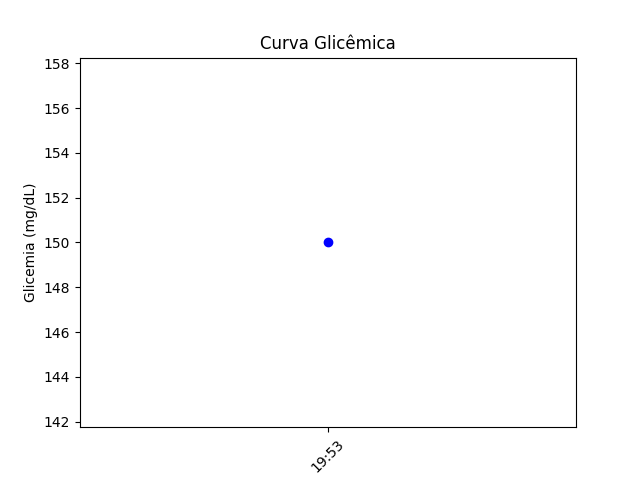
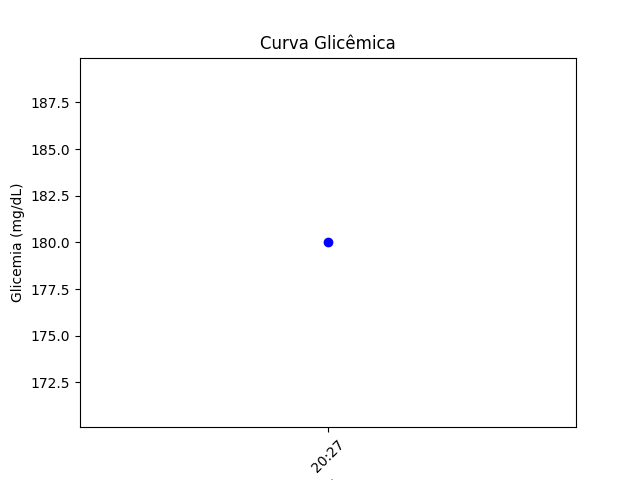
ajustes no layout e importação e exportação de json

diff --git a/templates/index.html b/templates/index.html
@@ -15,17 +15,41 @@
 <body>
     <div class="container">
         <h1 class="text-center my-4">Monitoramento Glicêmico para Pets</h1>
-        
+
         <div class="card">
             <div class="card-body">
+                <h5 class="card-title">Importar ou Exportar Dados</h5>
+                <form method="post" enctype="multipart/form-data">
+                    <div class="mb-3">
+                        <label class="form-label">Importar Dados (JSON):</label>
+                        <input type="file" class="form-control" name="json_file" accept=".json">
+                        <button type="submit" class="btn btn-primary mt-2">Importar</button>
+                    </div>
+                </form>
+                <a href="/export" class="btn btn-warning w-100">Exportar Dados JSON</a>
+            </div>
+        </div>
+
+        <div class="card mt-4">
+            <div class="card-body">
+                <h5 class="card-title">Adicionar Nova Medição</h5>
                 <form method="post">
                     <div class="mb-3">
+                        <label class="form-label">Selecionar Pet:</label>
+                        <select class="form-select" id="selectPet" onchange="fillPetData()">
+                            <option value="">Novo Pet</option>
+                            {% for item in data %}
+                            <option value="{{ item['Nome'] }}">{{ item['Nome'] }}</option>
+                            {% endfor %}
+                        </select>
+                    </div>
+                    <div class="mb-3">
                         <label class="form-label">Nome do Pet:</label>
-                        <input type="text" class="form-control" name="nome" required>
+                        <input type="text" class="form-control" name="nome" id="nome" required>
                     </div>
                     <div class="mb-3">
                         <label class="form-label">Tipo de Animal:</label>
-                        <select class="form-select" name="tipo">
+                        <select class="form-select" name="tipo" id="tipo">
                             <option value="Cachorro">Cachorro</option>
                             <option value="Gato">Gato</option>
                             <option value="Outro">Outro</option>
@@ -33,16 +57,16 @@
                     </div>
                     <div class="mb-3">
                         <label class="form-label">Raça:</label>
-                        <input type="text" class="form-control" name="raça">
+                        <input type="text" class="form-control" name="raça" id="raça">
                     </div>
                     <div class="row">
                         <div class="col-md-6">
                             <label class="form-label">Idade (anos):</label>
-                            <input type="number" class="form-control" name="idade" min="0" step="1">
+                            <input type="number" class="form-control" name="idade" id="idade" min="0" step="1">
                         </div>
                         <div class="col-md-6">
                             <label class="form-label">Peso (kg):</label>
-                            <input type="number" class="form-control" name="peso" min="0.1" step="0.1">
+                            <input type="number" class="form-control" name="peso" id="peso" min="0.1" step="0.1">
                         </div>
                     </div>
                     <div class="mb-3">
@@ -71,25 +95,29 @@
                     <th>Glicemia (mg/dL)</th>
                 </tr>
                 {% for item in data %}
+                {% for entry in item['Horários'] %}
                 <tr>
                     <td>{{ item['Nome'] }}</td>
-                    <td>{{ item['Horário'] }}</td>
-                    <td>{{ item['Glicemia'] }}</td>
+                    <td>{{ entry['Horário'] }}</td>
+                    <td>{{ entry['Glicemia'] }}</td>
                 </tr>
+                {% endfor %}
                 {% endfor %}
             </table>
         </div>
 
-        {% if img_path %}
-            <h2 class="text-center my-4">Curva Glicêmica</h2>
-            <div class="text-center">
-                <img src="{{ img_path }}" class="img-fluid" alt="Curva Glicêmica">
-            </div>
-        {% endif %}
-        
         <form method="post" action="/clear" class="text-center mt-4">
             <button type="submit" class="btn btn-danger">Limpar Histórico</button>
         </form>
+        
+        {% endif %}
+
+        
+        {% if img_path %}
+        <h2 class="text-center my-4">Curva Glicêmica</h2>
+        <div class="text-center">
+            <img src="{{ img_path }}?v={{ timestamp }}" class="img-fluid" alt="Curva Glicêmica">
+        </div>
         {% endif %}
     </div>
 
@@ -102,5 +130,32 @@
         }
     </script>
     <script src="https://cdn.jsdelivr.net/npm/bootstrap@5.3.0/dist/js/bootstrap.bundle.min.js"></script>
+    <script>
+        function fillPetData() {
+            let selectedPet = document.getElementById("selectPet").value;
+            if (selectedPet) {
+                fetch(`/get_pet/${encodeURIComponent(selectedPet)}`)
+                    .then(response => response.json())
+                    .then(data => {
+                        if (data && Object.keys(data).length > 0) {
+                            document.getElementById("nome").value = data.Nome;
+                            document.getElementById("tipo").value = data.Tipo;
+                            document.getElementById("raça").value = data.Raça;
+                            document.getElementById("idade").value = data.Idade;
+                            document.getElementById("peso").value = data.Peso;
+                        }
+                    })
+                    .catch(error => console.error('Erro ao buscar dados do pet:', error));
+            } else {
+                // Limpa os campos para entrada manual de um novo pet
+                document.getElementById("nome").value = "";
+                document.getElementById("tipo").value = "Cachorro";
+                document.getElementById("raça").value = "";
+                document.getElementById("idade").value = "";
+                document.getElementById("peso").value = "";
+            }
+        }
+    </script>
+    
 </body>
 </html>

diff --git a/app.py b/app.py
@@ -1,9 +1,13 @@
-from flask import Flask, render_template, request, redirect, url_for, jsonify
+from flask import Flask, render_template, request, redirect, url_for, send_file, jsonify
 import pandas as pd
 import matplotlib.pyplot as plt
 import os
 import json
 from datetime import datetime
+import matplotlib
+matplotlib.use("Agg")  # Desativa a interface gráfica
+
+
 
 app = Flask(__name__)
 DATA_FILE = "data.json"
@@ -29,22 +33,46 @@ data = load_data()
 def index():
     global data
     if request.method == 'POST':
-        new_entry = {
-            "Nome": request.form['nome'],
-            "Tipo": request.form['tipo'],
-            "Raça": request.form['raça'],
-            "Idade": request.form['idade'],
-            "Peso": request.form['peso'],
-            "Horário": request.form['horario'],
-            "Glicemia": int(request.form['glicemia'])
-        }
-        data.append(new_entry)
-        save_data(data)
-        return redirect(url_for('index'))
+        if 'json_file' in request.files:
+            file = request.files['json_file']
+            if file.filename.endswith('.json'):
+                data = json.load(file)
+                save_data(data)
+                return redirect(url_for('index'))
+        else:
+            nome = request.form['nome']
+            horario = request.form['horario']
+            glicemia = int(request.form['glicemia'])
+            
+            # Verificar se o pet já existe
+            existing_pet = next((pet for pet in data if pet['Nome'] == nome), None)
+            
+            if existing_pet:
+                existing_pet['Horários'].append({"Horário": horario, "Glicemia": glicemia})
+            else:
+                new_entry = {
+                    "Nome": nome,
+                    "Tipo": request.form['tipo'],
+                    "Raça": request.form['raça'],
+                    "Idade": request.form['idade'],
+                    "Peso": request.form['peso'],
+                    "Horários": [{"Horário": horario, "Glicemia": glicemia}]
+                }
+                data.append(new_entry)
+            
+            save_data(data)
+            return redirect(url_for('index'))
     
-    df = pd.DataFrame(data)
+    df = []
     img_path = None
-    if not df.empty:
+    if data:
+        horarios = []
+        glicemias = []
+        for pet in data:
+            for entry in pet['Horários']:
+                horarios.append(entry['Horário'])
+                glicemias.append(entry['Glicemia'])
+        df = pd.DataFrame({'Horário': horarios, 'Glicemia': glicemias})
         df = df.sort_values(by="Horário")
         plt.figure()
         plt.plot(df["Horário"], df["Glicemia"], marker='o', linestyle='-', color='b')
@@ -57,6 +85,12 @@ def index():
     
     return render_template('index.html', data=data, img_path=img_path)
 
+@app.route('/get_pet/<nome>')
+def get_pet(nome):
+    pet = next((pet for pet in data if pet['Nome'] == nome), None)
+    return jsonify(pet) if pet else jsonify({})
+
+
 @app.route('/clear', methods=['POST'])
 def clear_data():
     global data
@@ -64,6 +98,14 @@ def clear_data():
     save_data(data)
     if os.path.exists(GRAPH_FILE):
         os.remove(GRAPH_FILE)
+    return redirect(url_for('index'))
+
+@app.route('/export')
+def export_json():
+    if data:
+        pet_name = data[0]["Nome"].replace(" ", "_") if "Nome" in data[0] else "dados_pet"
+        file_name = f"{pet_name}.json"
+        return send_file(DATA_FILE, as_attachment=True, download_name=file_name)
     return redirect(url_for('index'))
 
 if __name__ == '__main__':
